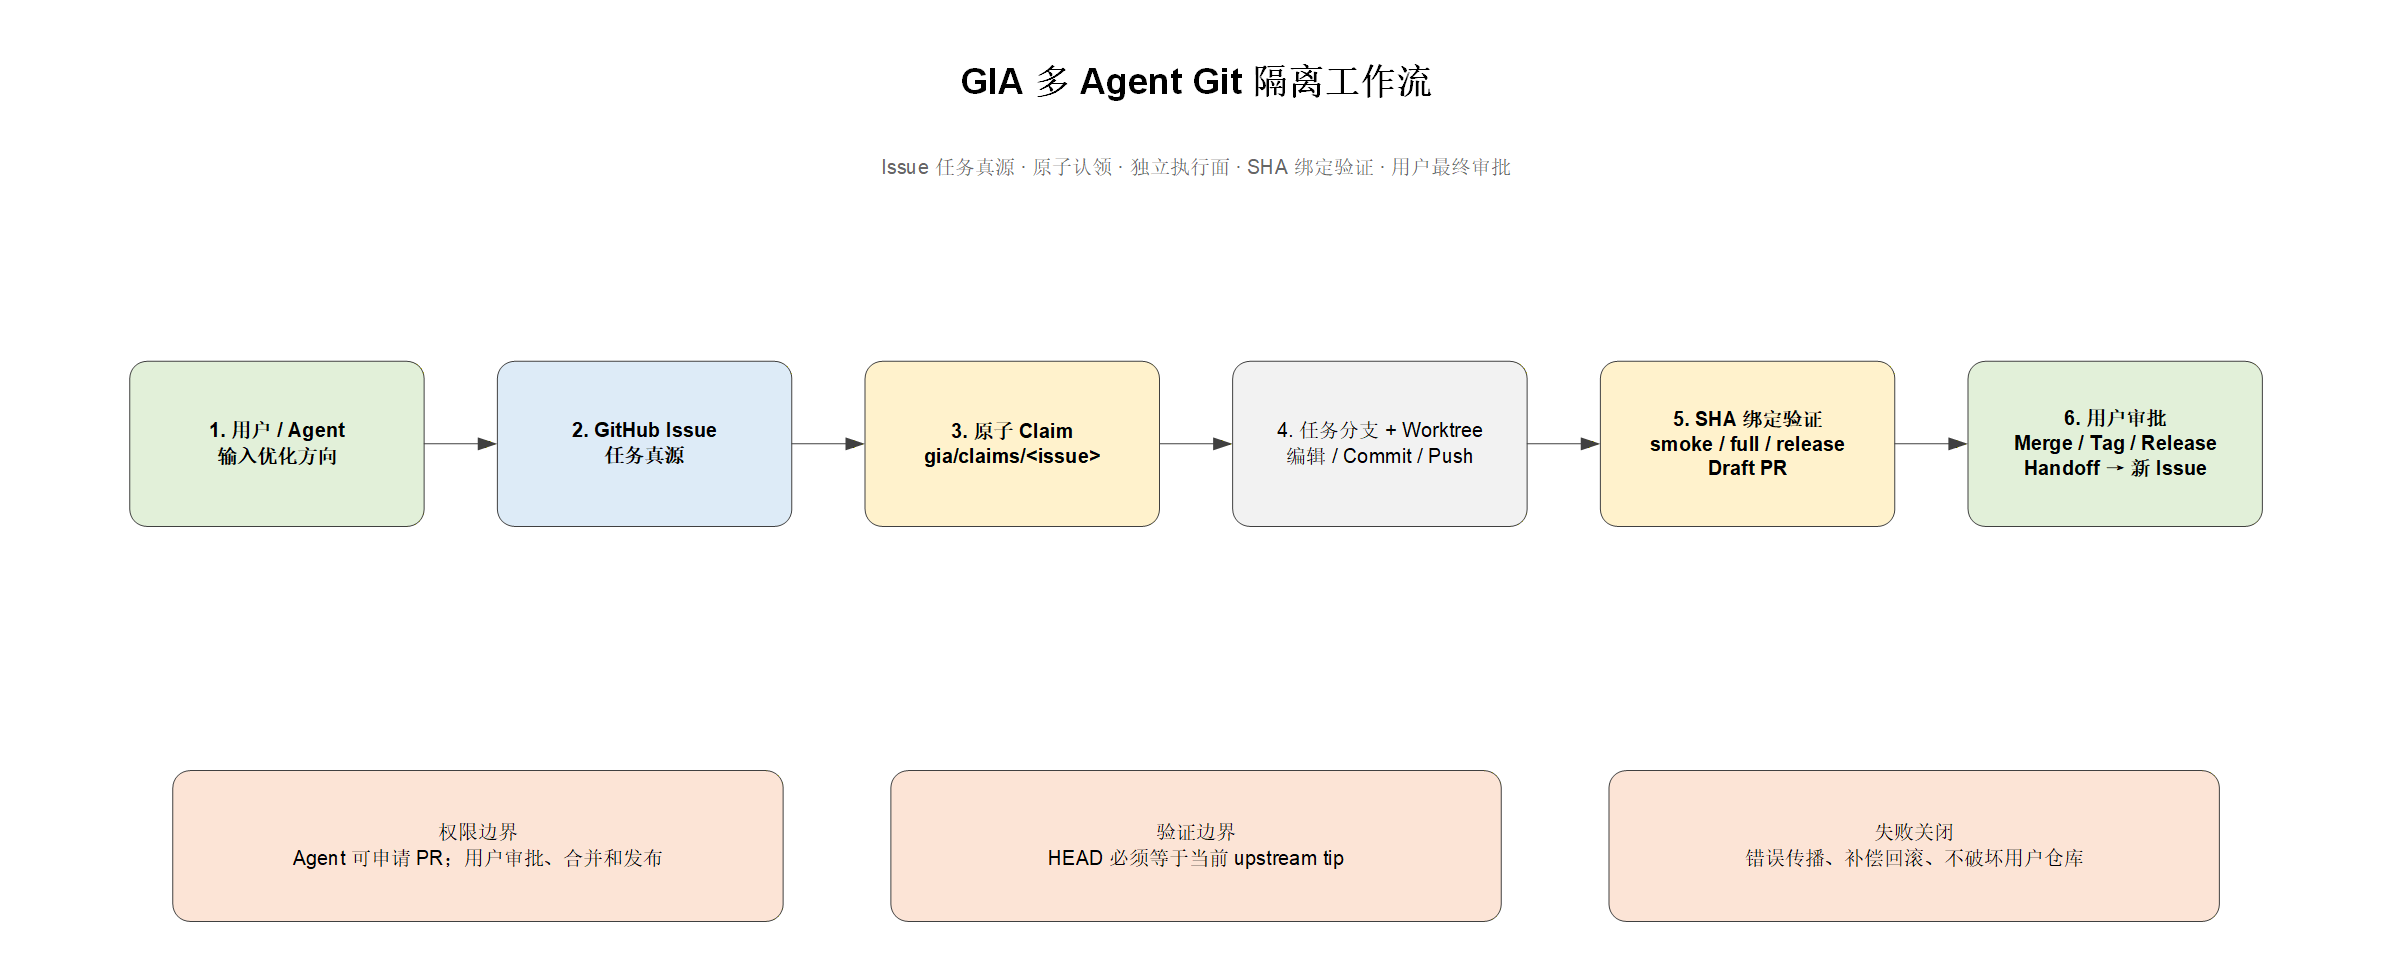
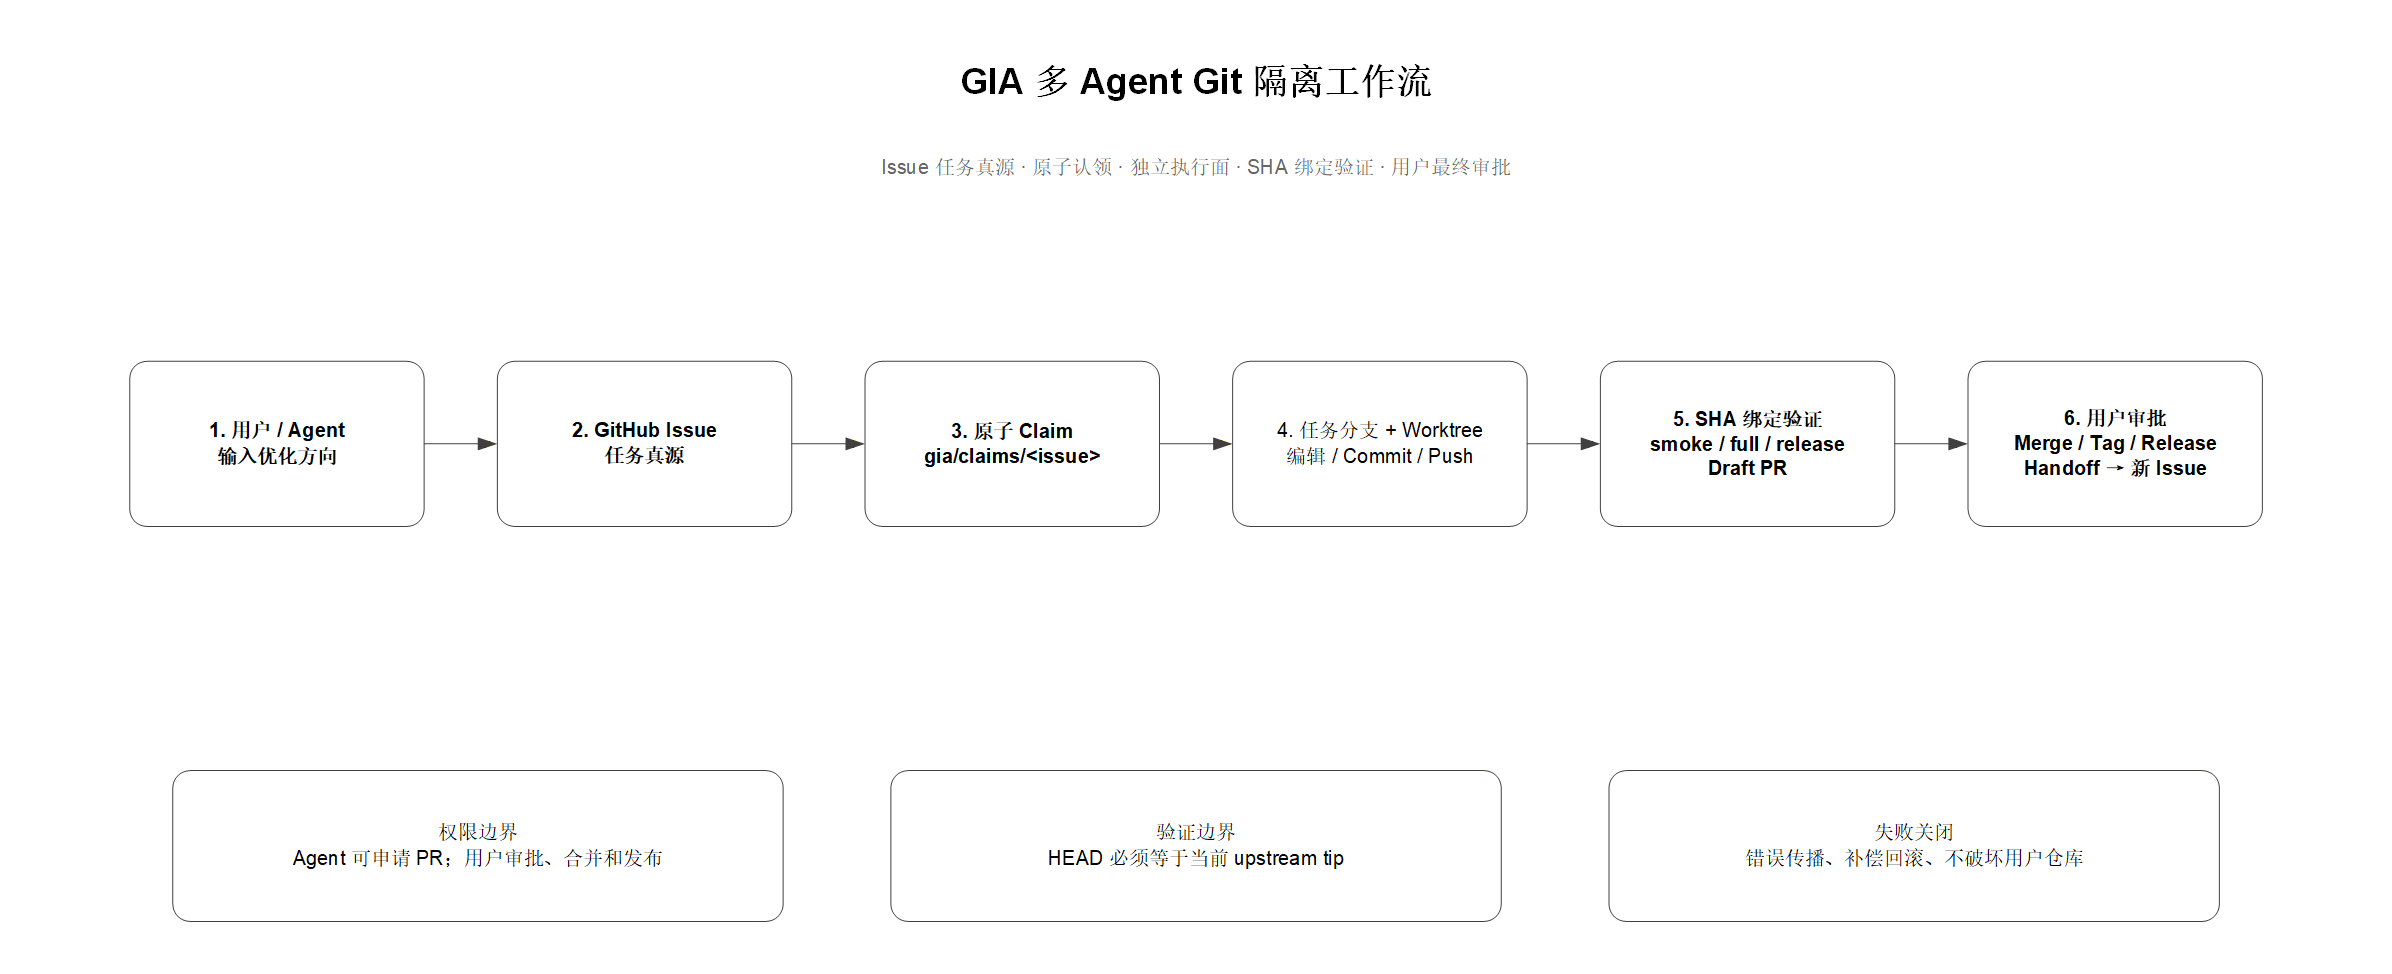
docs(readme): use unfilled Visio workflow

diff --git a/README.md b/README.md
@@ -23,8 +23,8 @@ GIA 将优化方向转化为 GitHub Issue，通过原子 Claim 和独立 Worktre
 单写者执行面；提交推送后绑定远端 SHA 完成验证，再由 Agent 申请 Draft PR，
 最终审批、合并、Tag 和 Release 始终归用户所有。
 
-该图先以图像生成草案确定视觉层级，再由 Microsoft Visio 基于 Diagram IR
-工程化重绘。可编辑源文件见
+该架构图由 Microsoft Visio 基于 Diagram IR 工程化绘制；流程块与治理块
+全部采用无填充样式。可编辑源文件见
 [gia-workflow.vsdx](docs/assets/gia-workflow.vsdx)，可复现定义见
 [gia-workflow.diagram.json](docs/assets/gia-workflow.diagram.json)，PNG 预览见
 [gia-workflow.png](docs/assets/gia-workflow.png)。

diff --git a/CHANGELOG.md b/CHANGELOG.md
@@ -2,8 +2,8 @@
 
 ## Unreleased
 
-- **docs**: 增加由 Microsoft Visio 工程化绘制的 GIA 多 Agent Git 隔离
-  工作流图、可编辑源文件和可复现 Diagram IR。
+- **docs**: 更新 GIA Visio 工作流图为无填充架构样式，并同步可编辑
+  VSDX、SVG、PNG 与可复现 Diagram IR。
 
 ## 0.1.0 - 2026-07-16
 
